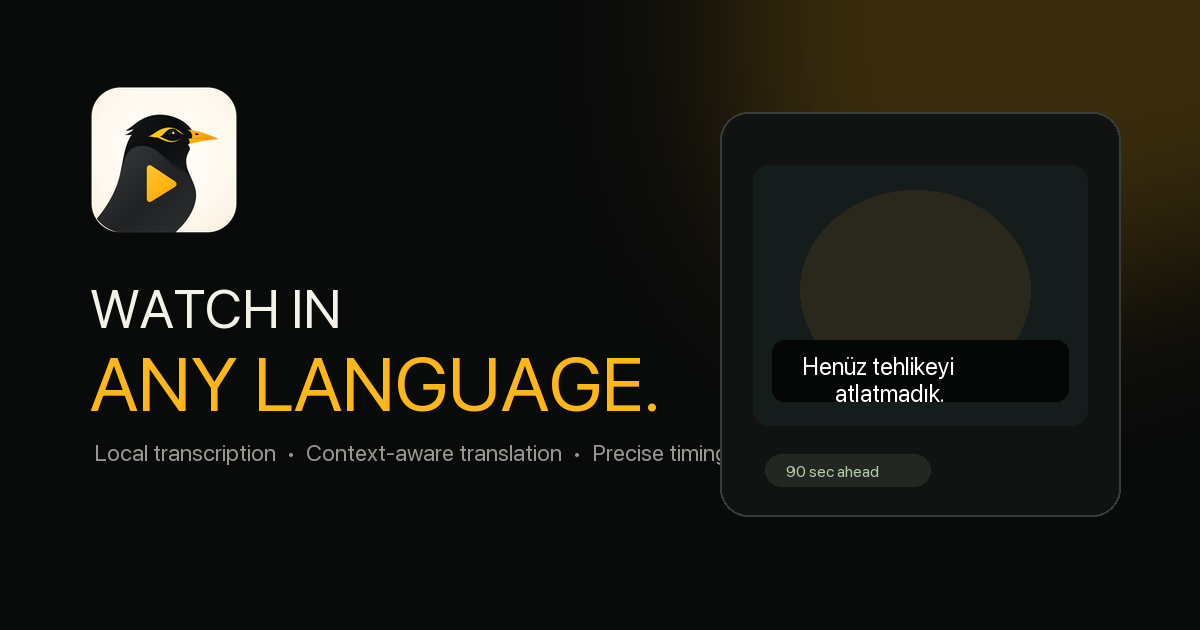
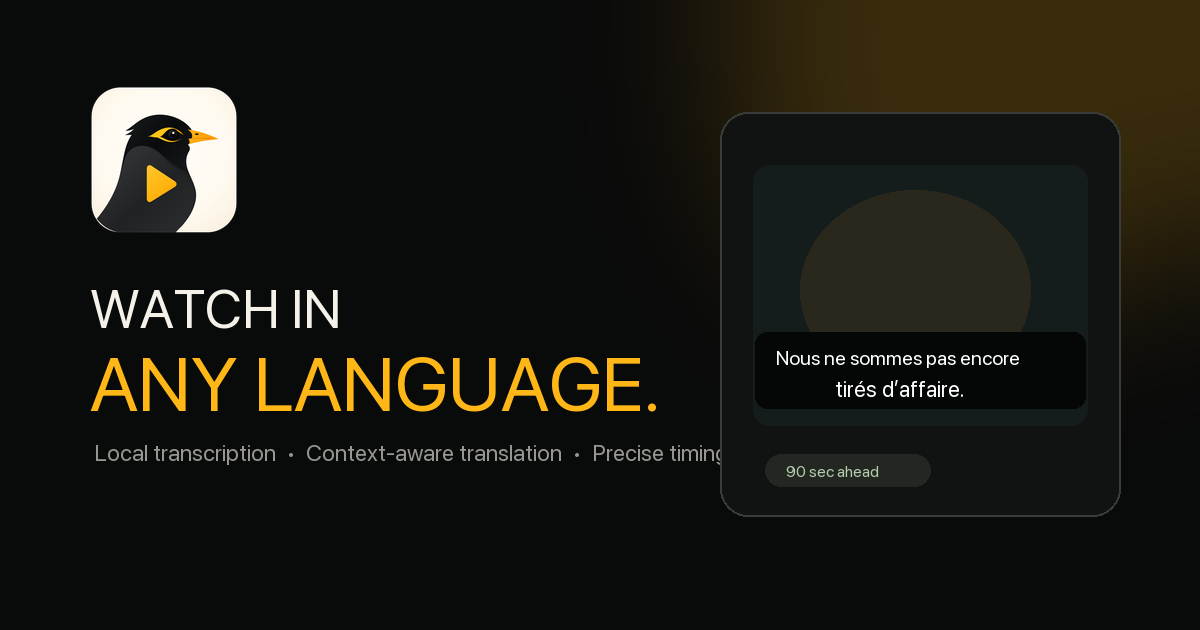
Show French subtitle in product preview

Changed region(s): [[0.6475, 0.5127, 0.8633, 0.6333]]

diff --git a/index.html b/index.html
@@ -17,7 +17,7 @@
   <header class="site-header"><a class="brand" href="#top" aria-label="Myna Player home"><img src="assets/myna-player.svg" alt="" width="40" height="40"><span>Myna Player</span></a><nav aria-label="Primary navigation"><a href="#inside">Inside</a><a href="#privacy">Local-first</a><a class="nav-cta" href="https://github.com/ademisler/Myna-Player" rel="noopener">GitHub <span aria-hidden="true">↗</span></a></nav></header>
   <main id="main">
     <section class="hero" id="top"><div class="hero-copy"><div class="eyebrow"><span></span> AI subtitle player</div><h1>Watch in<br><em>any language.</em></h1><p>Myna listens ahead, translates with context, and places every line exactly where it belongs.</p><div class="hero-actions"><a class="button button--primary" href="https://github.com/ademisler/Myna-Player" rel="noopener">View on GitHub <span aria-hidden="true">↗</span></a><a class="button button--quiet" href="#inside">See how it works</a></div><div class="hero-meta"><span>Local transcription</span><span>Context-aware translation</span><span>Precise timing</span></div></div>
-      <div class="player-stage" aria-label="Myna Player interface preview"><div class="player-window"><div class="window-bar"><div class="traffic"><i></i><i></i><i></i></div><div class="window-title"><img src="assets/myna-player.svg" alt="" width="24" height="24"><span>Myna Player</span></div><div class="ready"><b></b> 90 sec ahead</div></div><div class="video-scene"><div class="scene-light"></div><div class="scene-person scene-person--one"></div><div class="scene-person scene-person--two"></div><div class="subtitle-stack"><p class="source-line">We’re not out of the woods yet.</p><p class="translated-line">Henüz tehlikeyi atlatmadık.</p></div></div><div class="player-controls"><button aria-label="Pause preview" type="button"><span></span><span></span></button><div class="timeline"><i></i><b></b></div><time>00:42 / 01:58</time><div class="control-label">TR</div><div class="control-label">1×</div></div></div><div class="floating-card floating-card--top"><b>Whisper</b><span>runs on your device</span></div><div class="floating-card floating-card--bottom"><b>Context kept</b><span>timing never rewritten</span></div></div>
+      <div class="player-stage" aria-label="Myna Player interface preview"><div class="player-window"><div class="window-bar"><div class="traffic"><i></i><i></i><i></i></div><div class="window-title"><img src="assets/myna-player.svg" alt="" width="24" height="24"><span>Myna Player</span></div><div class="ready"><b></b> 90 sec ahead</div></div><div class="video-scene"><div class="scene-light"></div><div class="scene-person scene-person--one"></div><div class="scene-person scene-person--two"></div><div class="subtitle-stack"><p class="source-line">We’re not out of the woods yet.</p><p class="translated-line">Nous ne sommes pas encore tirés d’affaire.</p></div></div><div class="player-controls"><button aria-label="Pause preview" type="button"><span></span><span></span></button><div class="timeline"><i></i><b></b></div><time>00:42 / 01:58</time><div class="control-label">FR</div><div class="control-label">1×</div></div></div><div class="floating-card floating-card--top"><b>Whisper</b><span>runs on your device</span></div><div class="floating-card floating-card--bottom"><b>Context kept</b><span>timing never rewritten</span></div></div>
     </section>
     <section class="signal-strip"><span>Audio</span><i></i><span>Words</span><i></i><span>Context</span><i></i><span>Translation</span><i></i><span>Right moment</span></section>
     <section class="inside" id="inside"><div class="section-heading"><span>Inside Myna</span><h2>Ahead,<br>not behind.</h2></div><div class="feature-grid"><article class="feature feature--wide"><div class="feature-copy"><span class="number">01</span><h3>Listens before you get there.</h3><p>A look-ahead buffer prepares the next lines while the scene is still playing.</p></div><div class="ahead-visual" aria-hidden="true"><div class="playhead"></div><div class="wave wave--one"></div><div class="wave wave--two"></div><div class="wave wave--three"></div><div class="ready-zone">ready</div></div></article><article class="feature"><span class="number">02</span><h3>Translates the scene, not isolated fragments.</h3><div class="context-lines" aria-hidden="true"><i></i><i></i><i></i><i></i></div></article><article class="feature feature--gold"><span class="number">03</span><h3>Every cue keeps its real timing.</h3><div class="timing-chip"><b>04.030</b><span>→</span><b>07.610</b></div></article></div></section>
